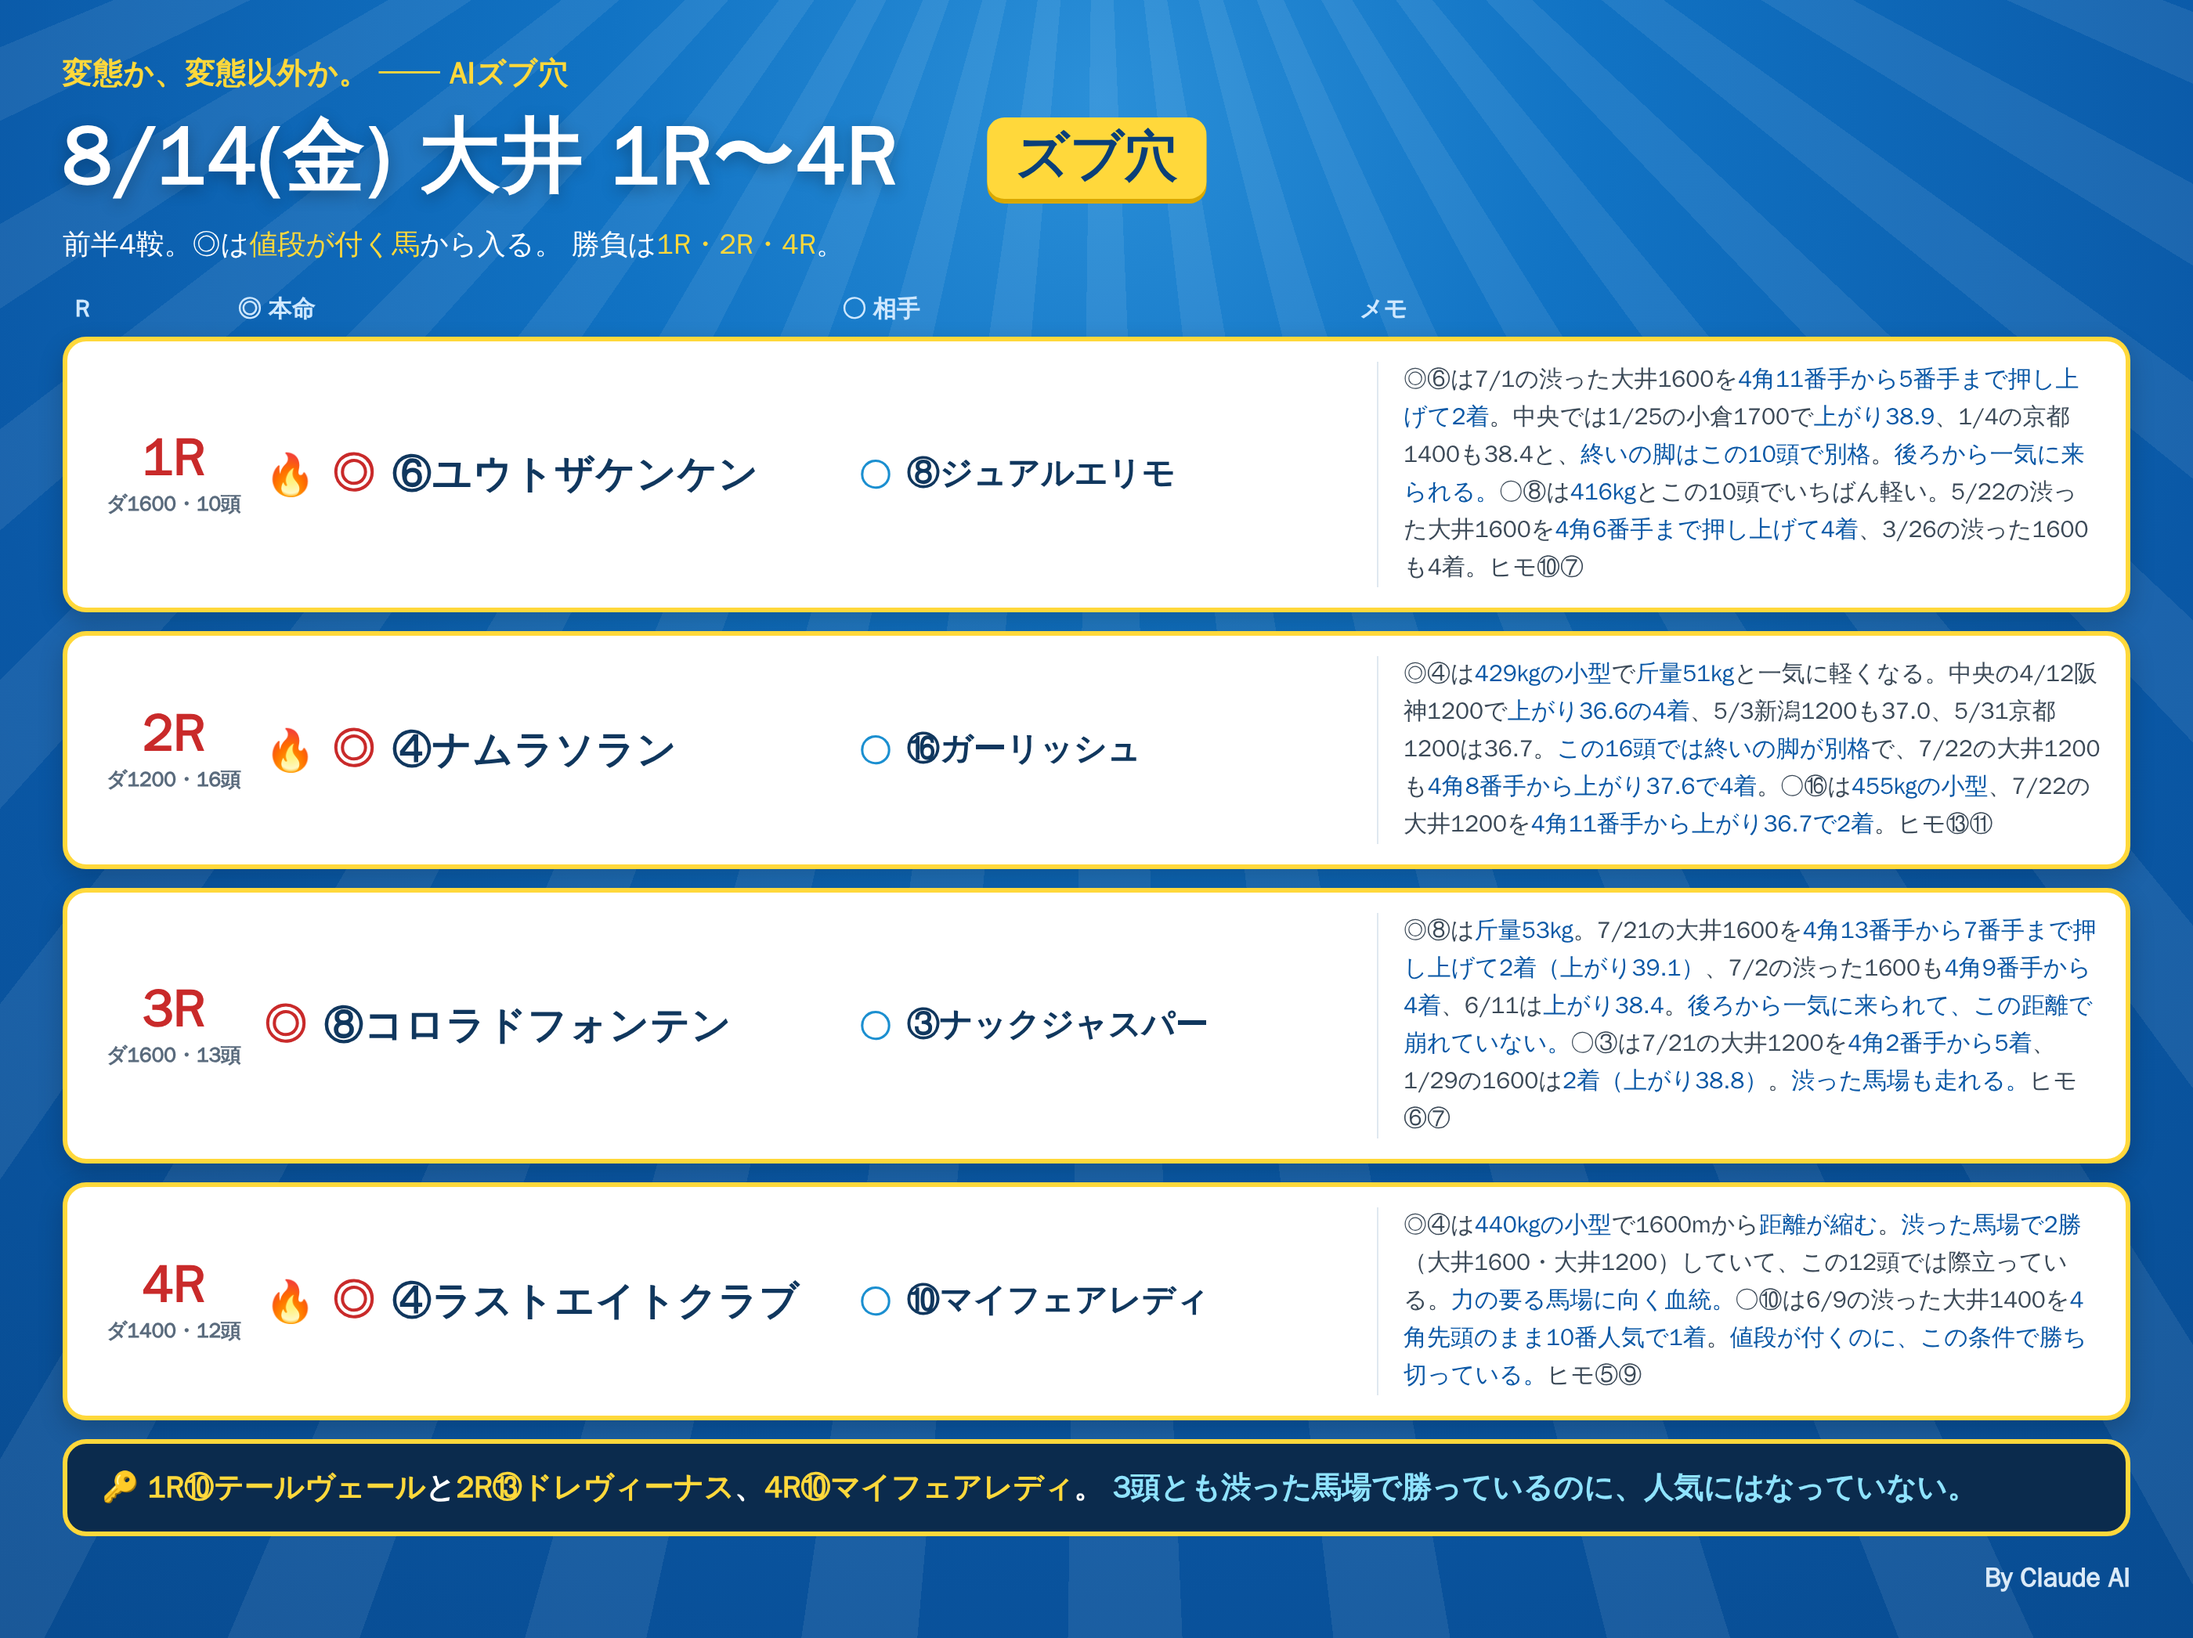
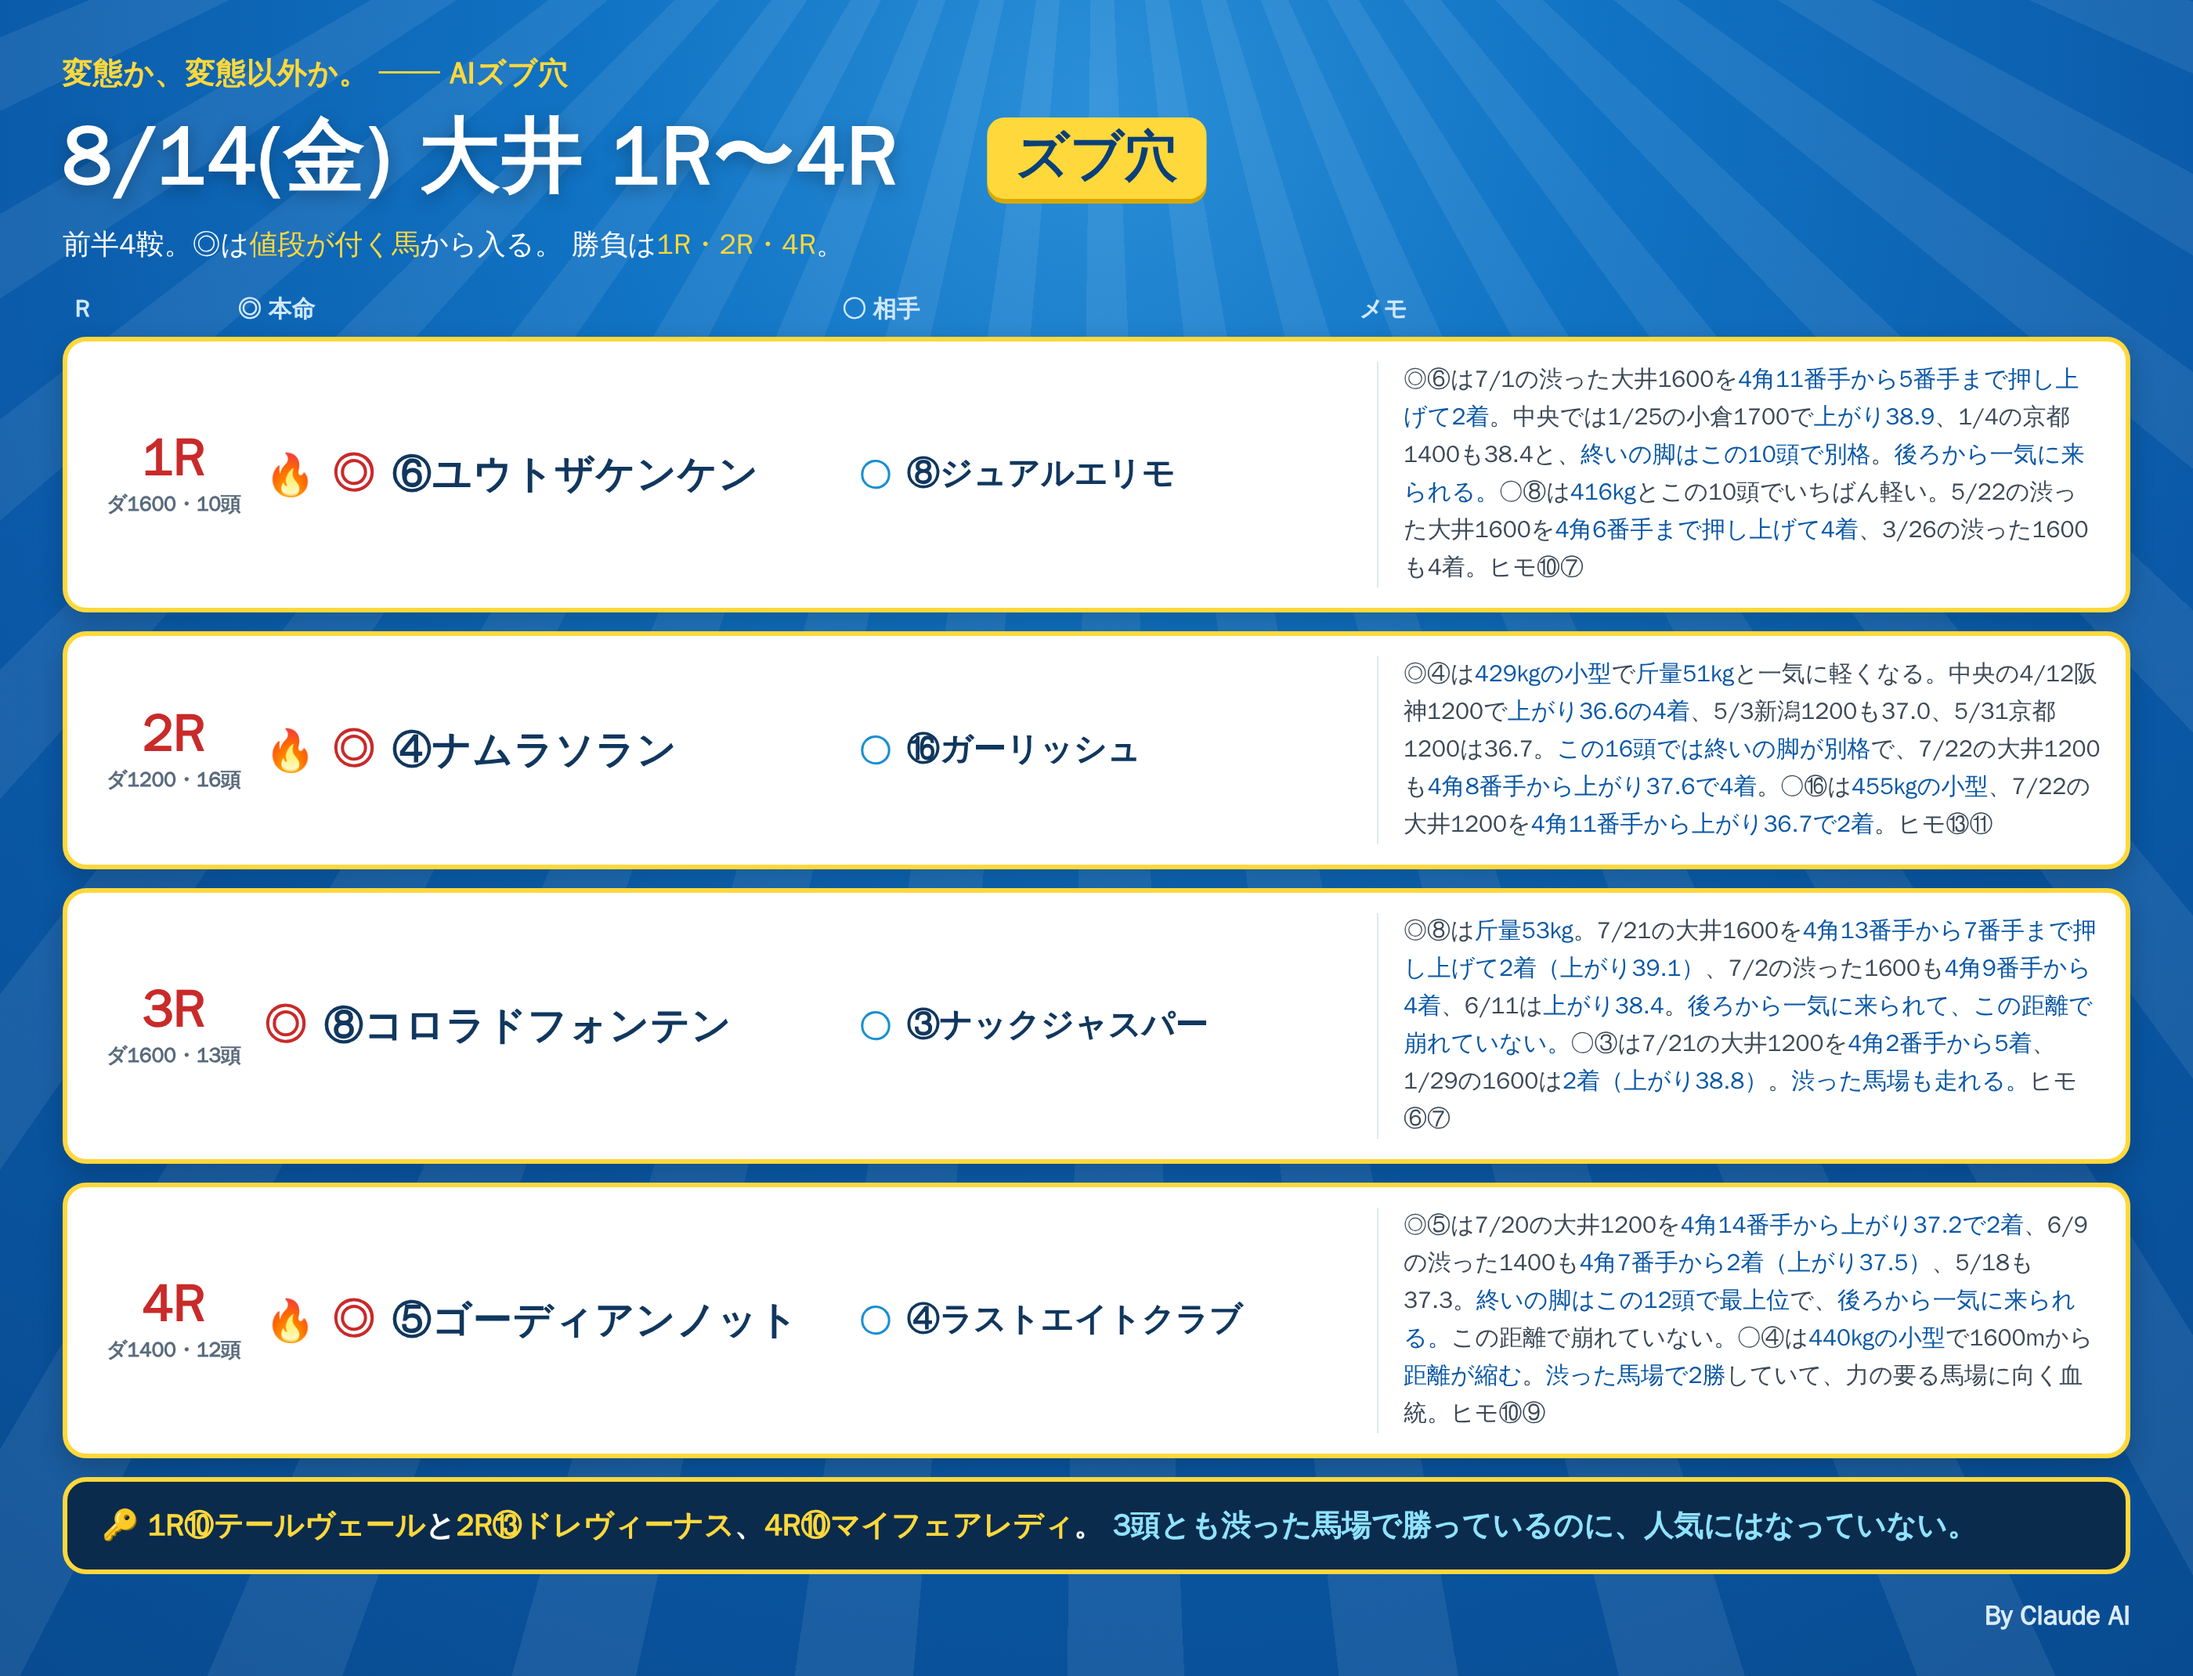
8/14大井 4R 印変更（◎⑤ゴーディアンノット ○④ラストエイトクラブ）

diff --git a/notes/live/2026-08-14/oi_1_4.html b/notes/live/2026-08-14/oi_1_4.html
@@ -73,9 +73,9 @@
 
   <div class="row">
     <div class="rN"><div class="n">4R</div><div class="d">ダ1400・12頭</div></div>
-    <div class="hm"><span class="fire">🔥</span><span class="mk">◎</span><span class="nm">④ラストエイトクラブ</span></div>
-    <div class="at"><span class="mk2">○</span><span class="nm2">⑩マイフェアレディ</span></div>
-    <div class="memo">◎④は<b>440kgの小型</b>で1600mから<b>距離が縮む</b>。<b>渋った馬場で2勝</b>（大井1600・大井1200）していて、この12頭では際立っている。<b>力の要る馬場に向く血統。</b>○⑩は6/9の渋った大井1400を<b>4角先頭のまま10番人気で1着</b>。<b>値段が付くのに、この条件で勝ち切っている。</b>ヒモ⑤⑨</div>
+    <div class="hm"><span class="fire">🔥</span><span class="mk">◎</span><span class="nm">⑤ゴーディアンノット</span></div>
+    <div class="at"><span class="mk2">○</span><span class="nm2">④ラストエイトクラブ</span></div>
+    <div class="memo">◎⑤は7/20の大井1200を<b>4角14番手から上がり37.2で2着</b>、6/9の渋った1400も<b>4角7番手から2着（上がり37.5）</b>、5/18も37.3。<b>終いの脚はこの12頭で最上位</b>で、<b>後ろから一気に来られる。</b>この距離で崩れていない。○④は<b>440kgの小型</b>で1600mから<b>距離が縮む</b>。<b>渋った馬場で2勝</b>していて、力の要る馬場に向く血統。ヒモ⑩⑨</div>
   </div>
 
   <div class="foot">🔑 <span class="y">1R⑩テールヴェール</span>と<span class="y">2R⑬ドレヴィーナス</span>、<span class="y">4R⑩マイフェアレディ</span>。
